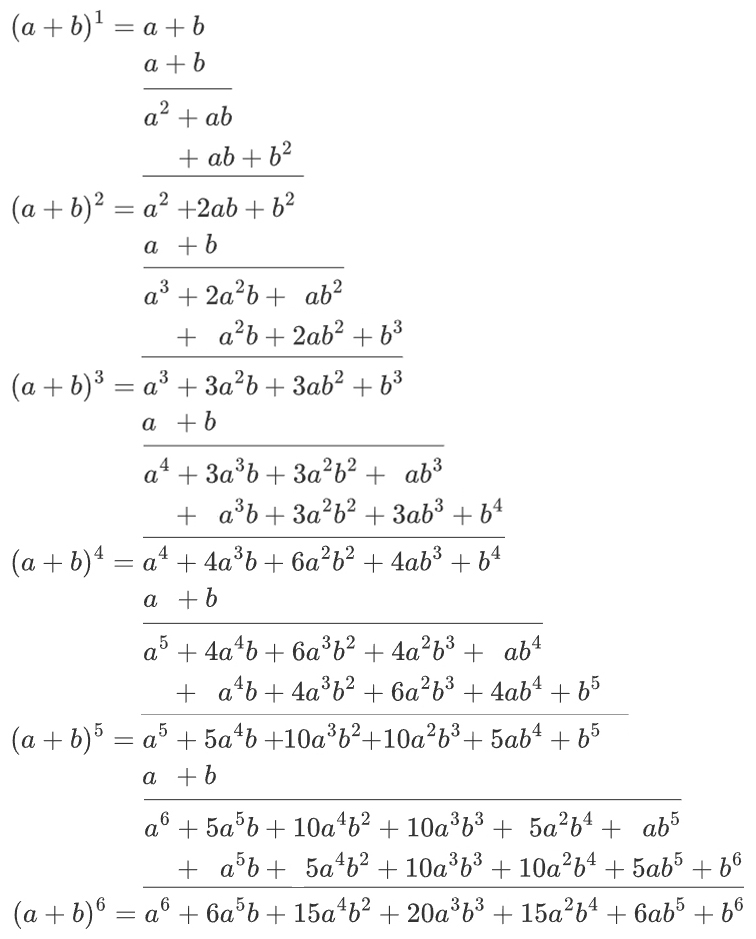
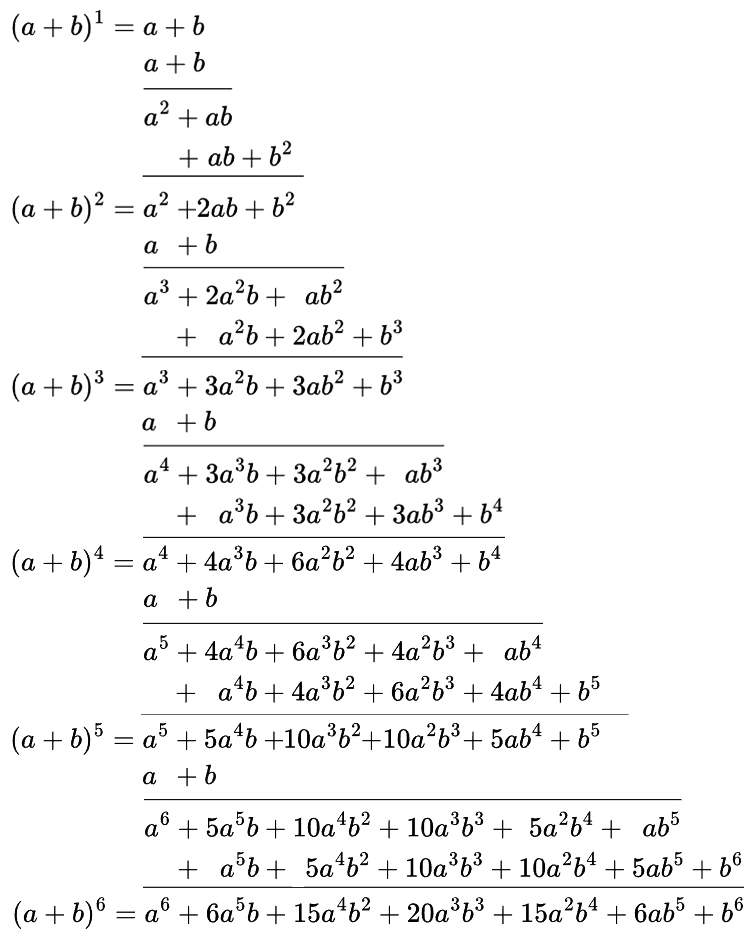
revise

diff --git a/chapters/数系/二项式定理/整数次幂的二项式定理.md b/chapters/数系/二项式定理/整数次幂的二项式定理.md
@@ -118,30 +118,21 @@ $$
 
 1. 依据乘法分配律， $(a+b)^2 = (a+b)(a+b)$ 的运算结果是： $a·a+2·a·b+b·b$，简化表达为： $aa+2ab+bb$。
 ![](/images/数系/二项式定理/整数次幂的二项式定理/1a1.jpg)
-
 2.  $(a+b)^3 = (a+b)(a+b)(a+b)$ 的运算结果是： $a·a·a+3·a·a·b+3·a·b·b+b·b·b$，简化表达为： $aaa+3aab+3abb+bbb$。
 ![](/images/数系/二项式定理/整数次幂的二项式定理/2a1.jpg)
-
 3.  $(a+b)^4 = (a+b)(a+b)(a+b)(a+b)$ 的运算结果是： $aaaa+4aaab+6aabb+4abbb+bbbb$。
 ![](/images/数系/二项式定理/整数次幂的二项式定理/3a1.jpg)
-
 4.  $(a+b)^5 = (a+b)(a+b)(a+b)(a+b)(a+b)$ 的运算结果是： $aaaaa+5aaaab+10aaabb+10aabbb+5abbbb+bbbbb$。
 ![](/images/数系/二项式定理/整数次幂的二项式定理/4a1.jpg)
-
 5.  $(a+b)^6 = (a+b)(a+b)(a+b)(a+b)(a+b)(a+b)$ 的运算结果是： $aaaaaa+6aaaaab+15aaaabb+20aaabbb+15aabbbb+6abbbbb+bbbbbb$。
 ![](/images/数系/二项式定理/整数次幂的二项式定理/5a1.jpg)
-
-6.  $(a+b)^7 = (a+b)(a+b)(a+b)(a+b)(a+b)(a+b)(a+b)$ 的运算结果是： $aaaaaaa+7aaaaaab+21aaaabb+35aaaabbb+35aaabbbb+21aabbbbb+7abbbbbb+bbbbbbb$。
-![](/images/数系/二项式定理/整数次幂的二项式定理/6a1.jpg)
-
 7. 可以发现：
-- 对于 $(a+b)^1 = a+b$，从左到右的每一项中a出现的次数分别是1，0，b出现的次数分别是0，1。
-- 对于 $(a+b)^2 = aa+2ab+bb$，从左到右的每一项中a出现的次数分别是2，1，0，b出现的次数分别是0，1，2。
-- 对于 $(a+b)^3 = aaa+3aab+3abb+bbb$，从左到右的每一项中a出现的次数分别是3，2，1，0，b出现的次数分别是0，1，2，3。
-- 对于 $(a+b)^4 = aaaa+4aaab+6aabb+4abbb+bbbb$，从左到右的每一项中a出现的次数分别是4，3，2，1，0，b出现的次数分别是0，1，2，3，4。
-- 对于 $(a+b)^5 = aaaaa+5aaaab+10aaabb+10aabbb+5abbbb+bbbbb$，从左到右的每一项中a出现的次数分别是5，4，3，2，1，0，b出现的次数分别是0，1，2，3，4，5。
-- 对于 $(a+b)^6 = aaaaaa+6aaaaab+15aaaabb+20aaabbb+15aabbbb+6abbbbb+bbbbbb$，从左到右的每一项中a出现的次数分别是6，5，4，3，2，1，0，b出现的次数分别是0，1，2，3，4，5，6。
-- 对于 $(a+b)^7 = aaaaaaa+7aaaaaab+21aaaabb+35aaaabbb+35aaabbbb+21aabbbbb+7abbbbbb+bbbbbbb$，从左到右的每一项中a出现的次数分别是7，6，5，4，3，2，1，0，b出现的次数分别是0，1，2，3，4，5，6，7。
+- $(a+b)^1 = a+b$，从左到右的每一项中a出现的次数分别是1，0，b出现的次数分别是0，1。
+- $(a+b)^2 = aa+2ab+bb$，从左到右的每一项中a出现的次数分别是2，1，0，b出现的次数分别是0，1，2。
+- $(a+b)^3 = aaa+3aab+3abb+bbb$，从左到右的每一项中a出现的次数分别是3，2，1，0，b出现的次数分别是0，1，2，3。
+- $(a+b)^4 = aaaa+4aaab+6aabb+4abbb+bbbb$，从左到右的每一项中a出现的次数分别是4，3，2，1，0，b出现的次数分别是0，1，2，3，4。
+- $(a+b)^5 = aaaaa+5aaaab+10aaabb+10aabbb+5abbbb+bbbbb$，从左到右的每一项中a出现的次数分别是5，4，3，2，1，0，b出现的次数分别是0，1，2，3，4，5。
+- $(a+b)^6 = aaaaaa+6aaaaab+15aaaabb+20aaabbb+15aabbbb+6abbbbb+bbbbbb$，从左到右的每一项中a出现的次数分别是6，5，4，3，2，1，0，b出现的次数分别是0，1，2，3，4，5，6。
 - 直觉上可以感受到对于 $(a+b)^n$ 的展开式，从左到右的每一项中a出现的次数分别是n, n-1, n-2, ...，2，1，0，b出现的次数分别是0，1，2，...，n-2，n-1，n。
 ![](/images/数系/二项式定理/整数次幂的二项式定理/7a1.jpg)
 
